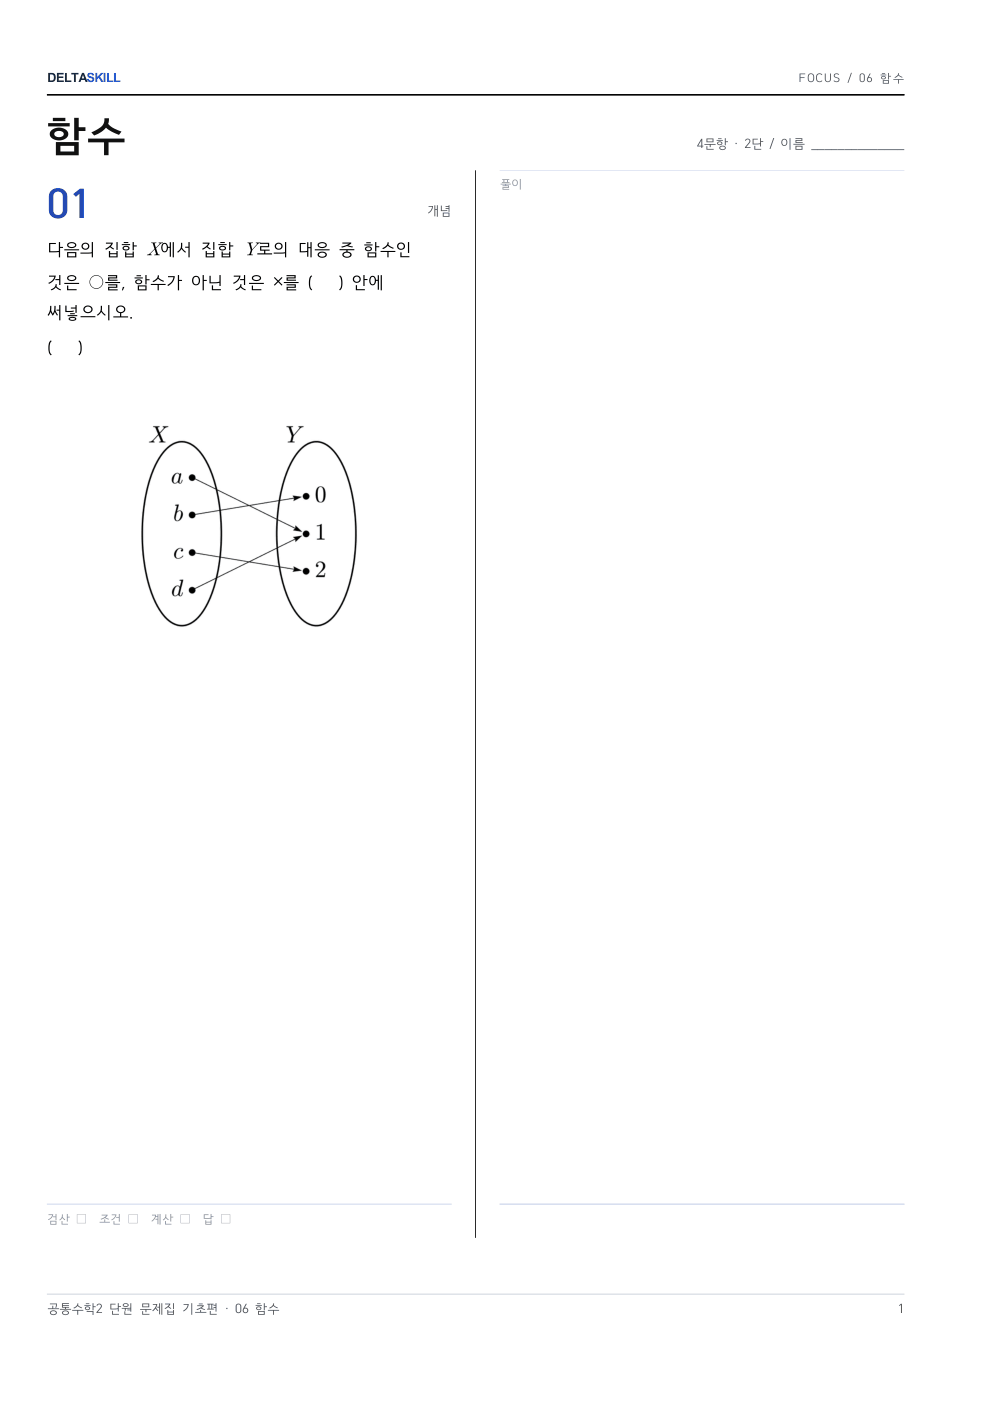
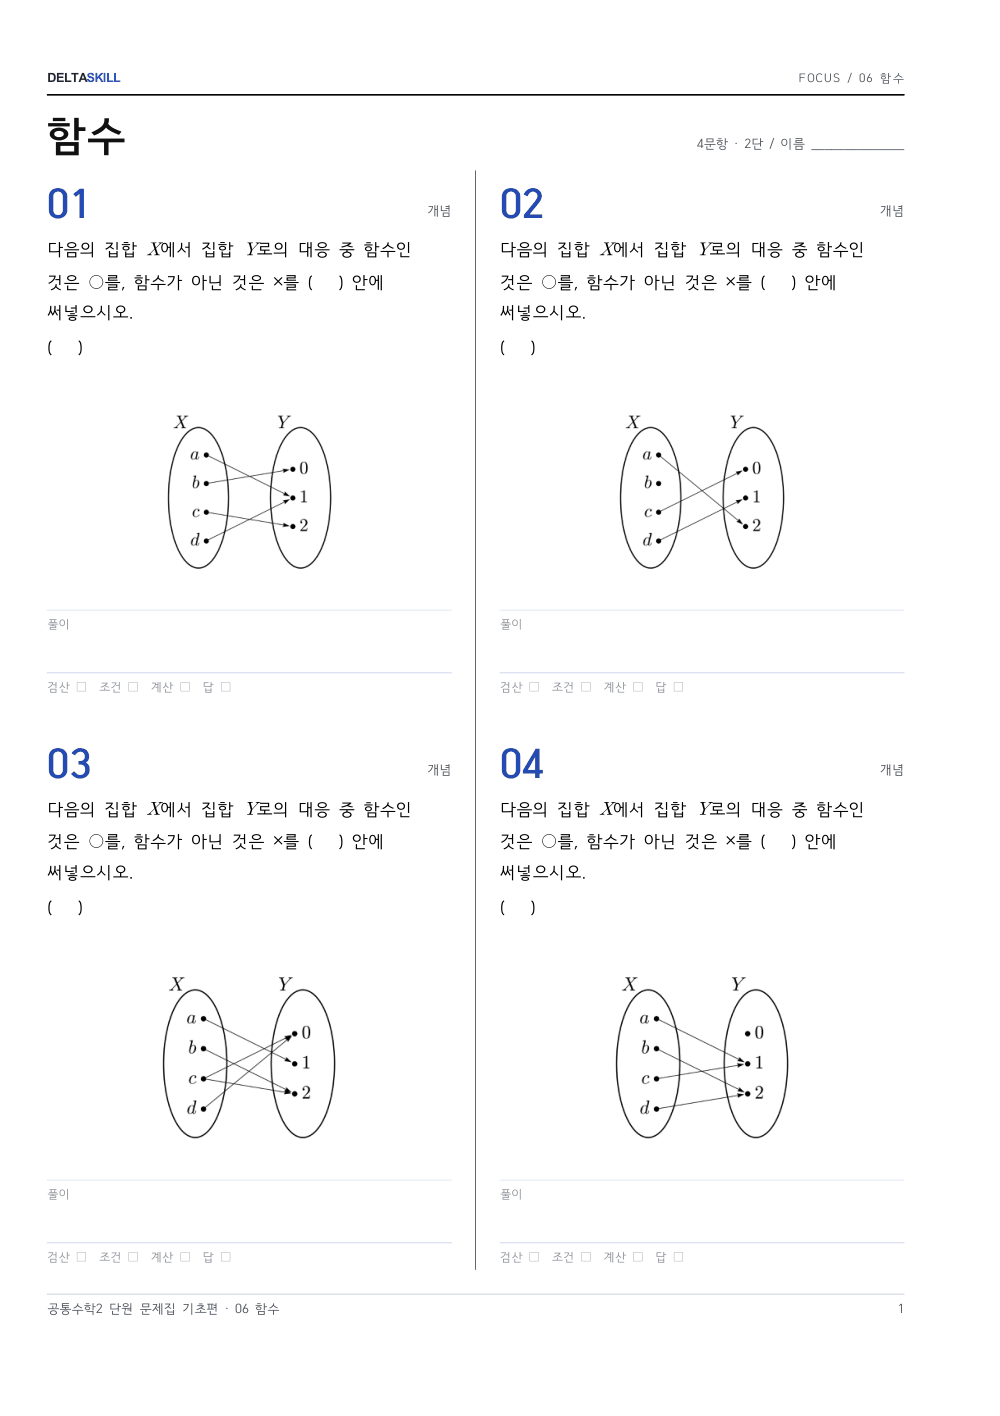
지침 확인: 홈페이지_디자인규칙_1118_33 (스킬: 차분간결) — A06 기초편 r2c_h 갈아 끼움(SUMS 5f0e2640 · s1c-33 통과 · 같은 자리 · 54문항 · 값 2,200 다시 재도 같음) · 쪽 수 75 · 48 · 37 · 미리보기 · 쪽 구성 그림 새 판 (38 창 · 43)

diff --git a/naesin/index.html b/naesin/index.html
@@ -558,7 +558,7 @@ footer.sitefoot{display:block;margin:0;padding:0;border:0;background:#05060f}
     var i=document.createElement("img");i.alt=alt||"";i.decoding="async";i.draggable=false;i.className="ds-sheet on";
     i.addEventListener("contextmenu",function(e){e.preventDefault();});
     i.addEventListener("error",function(){if(onFail)onFail();if(b.pv&&window.DSSheet){var r=DSSheet.img(b.pv.url,1,alt||"");if(i.parentNode)i.parentNode.replaceChild(r,i);}else i.classList.remove("on");},{once:true});
-    i.src="/naesin/preview/"+encodeURIComponent(b.sku)+"-L"+k+".png?v=38r2e-1119";return i;
+    i.src="/naesin/preview/"+encodeURIComponent(b.sku)+"-L"+k+".png?v=38r2ch-1119";return i;
   }
   function thumb(b,alt){var t=el("span","pk-thumb");add(t,layImg(b,"2",alt||""));return t;}
   function bookTitle(b){return b.sn+" "+b.no+" "+b.unit+(b.ed?" · "+b.ed:"");}
